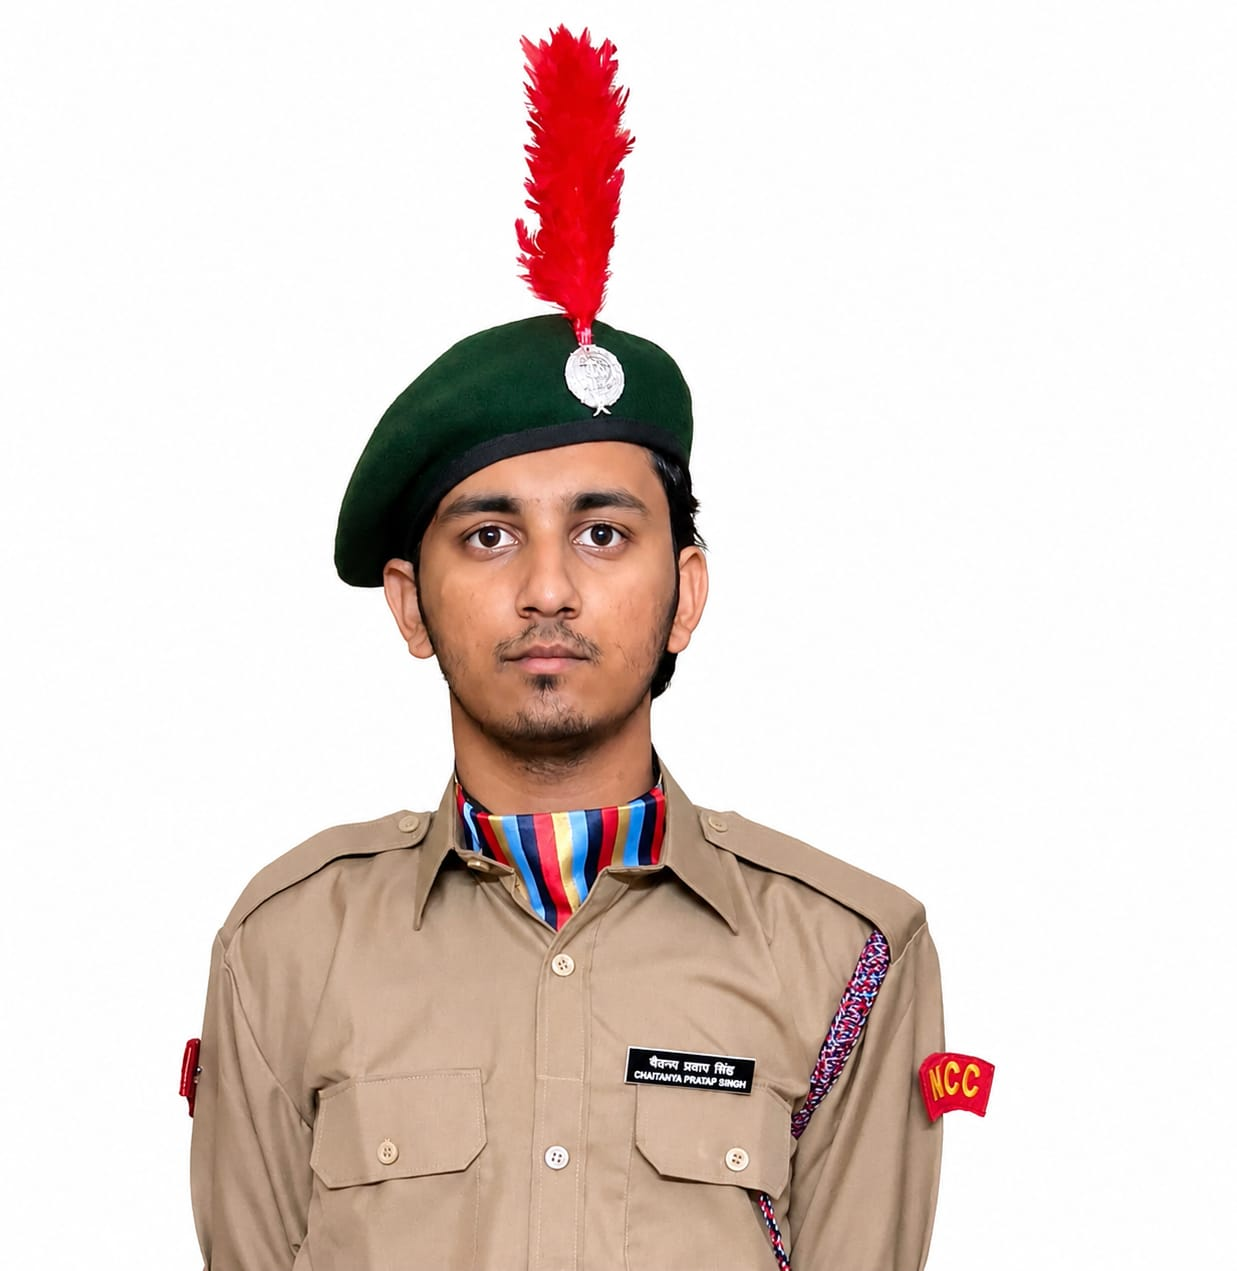
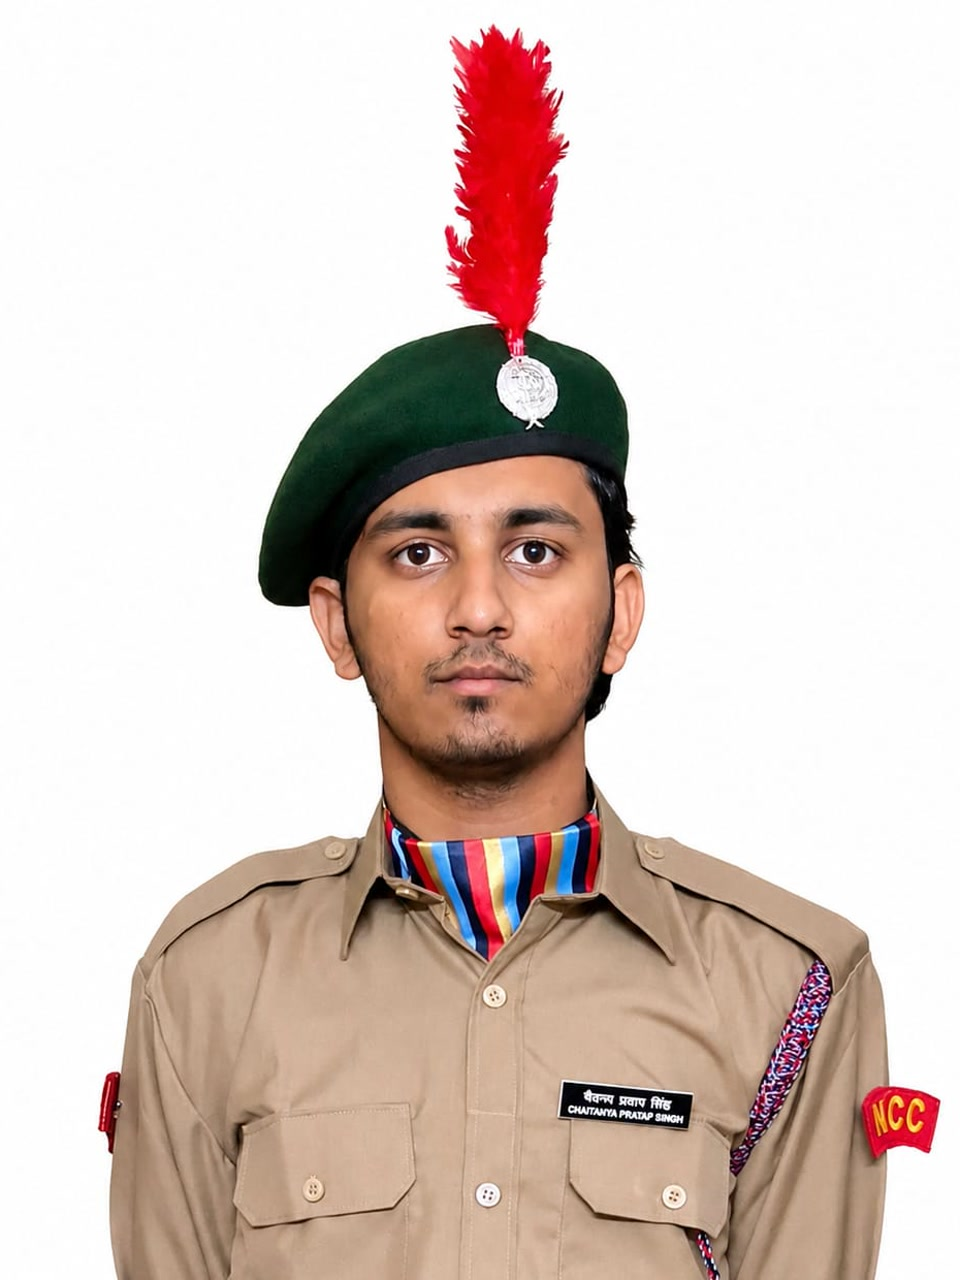
Update team page details and footer credit
- New Dean of Students Welfare: Prof. Satish Pipralia
- Rename Faculty Advisors heading to Faculty
- Mark Dr. Anup Malik as Faculty Coordinator (NCC)
- Crop Cadet Chaitanya's photo to chest level like the others
- Footer: Website managed by - Himanshu Sharma

diff --git a/src/components/layout/Footer.jsx b/src/components/layout/Footer.jsx
@@ -32,7 +32,7 @@ const Footer = () => {
               
                 <div className="flex items-center gap-2">
                   <svg xmlns="http://www.w3.org/2000/svg" width="16" height="16" viewBox="0 0 24 24" fill="none" stroke="currentColor" strokeWidth="2" strokeLinecap="round" strokeLinejoin="round"><path d="M4 4h16c1.1 0 2 .9 2 2v12c0 1.1-.9 2-2 2H4c-1.1 0-2-.9-2-2V6c0-1.1.9-2 2-2z"></path><polyline points="22,6 12,13 2,6"></polyline></svg>
-                  <span>Himanshu Sharma : <a href="mailto:2025pis5213@mnit.ac.in" className="hover:text-white transition-colors">2025pis5213@mnit.ac.in</a></span>
+                  <span>Website managed by - Himanshu Sharma : <a href="mailto:2025pis5213@mnit.ac.in" className="hover:text-white transition-colors">2025pis5213@mnit.ac.in</a></span>
                 </div>
                 <div className="flex items-center gap-2">
                   <svg xmlns="http://www.w3.org/2000/svg" width="16" height="16" viewBox="0 0 24 24" fill="none" stroke="currentColor" strokeWidth="2" strokeLinecap="round" strokeLinejoin="round"><path d="M4 4h16c1.1 0 2 .9 2 2v12c0 1.1-.9 2-2 2H4c-1.1 0-2-.9-2-2V6c0-1.1.9-2 2-2z"></path><polyline points="22,6 12,13 2,6"></polyline></svg>

diff --git a/src/data/teamData.js b/src/data/teamData.js
@@ -1,5 +1,5 @@
 import Director from '../assets/team/director.jpg';
-import dean from '../assets/team/dean.png';
+import dean from '../assets/team/dean.jpg';
 import facultyCoordinator from '../assets/team/faculty-coordinator.jpeg';
 import ankit from '../assets/team/ankit.jpeg';
 
@@ -29,14 +29,14 @@ export const teamData = {
   faculty: [
     {
       id: 1,
-      name: "Prof. Kanupriya Sachdev",
+      name: "Prof. Satish Pipralia",
       role: "Dean of Students Welfare",
       image: dean,
     },
     {
       id: 2,
       name: "Dr. Anup Malik",
-      role: "Faculty Coordinator",
+      role: "Faculty Coordinator (NCC)",
       image: facultyCoordinator,
     },
   ],

diff --git a/src/pages/Team.jsx b/src/pages/Team.jsx
@@ -114,7 +114,7 @@ const Team = () => {
             >
               <div className="text-center mb-10">
                 <h2 className="text-3xl font-bold text-mnit-blue">
-                  Faculty Advisors
+                  Faculty
                 </h2>
                 <div className="w-24 h-1 bg-mnit-red mx-auto mt-2 rounded"></div>
               </div>
